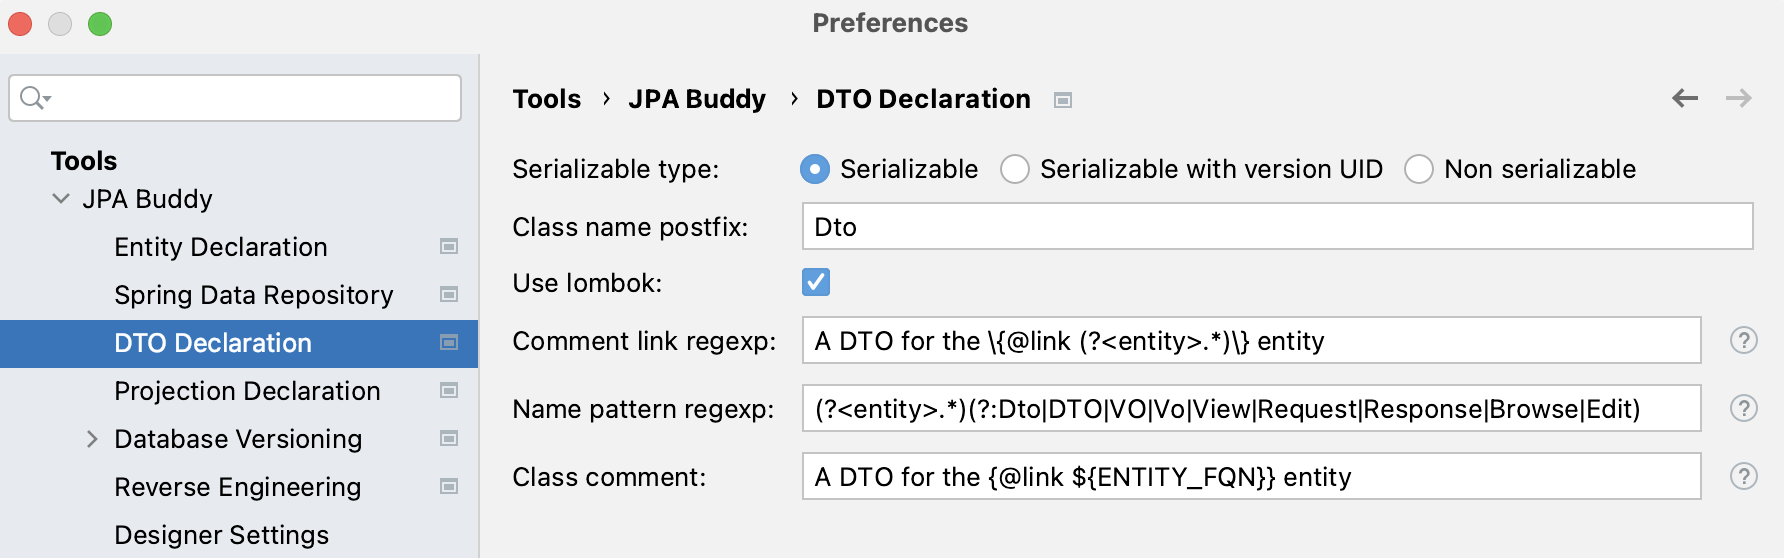
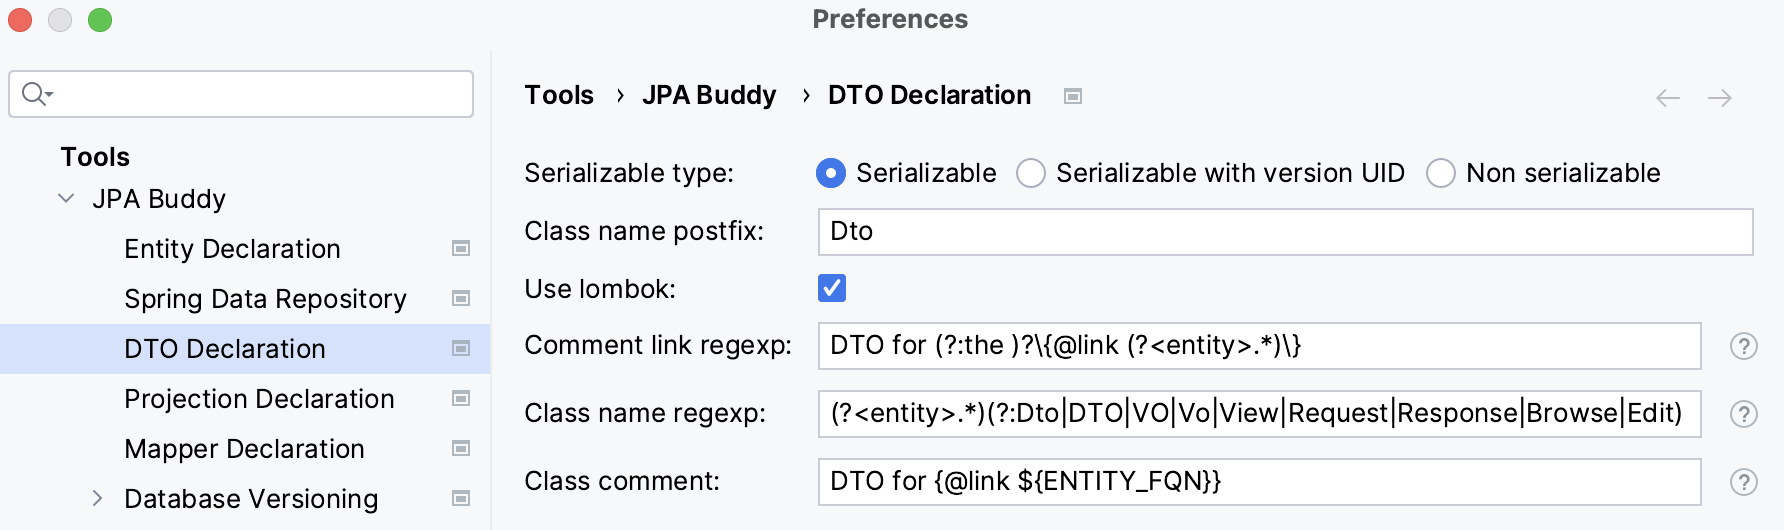
JPAB-2413 Change DTO and Projection "Comment link regexp" and "Class comment" default value #171

diff --git a/dto-generator/dto-generator.md b/dto-generator/dto-generator.md
@@ -200,12 +200,13 @@ Each project may follow its own conventions for code writing. In the Tools -> JP
 1. Serializable type.
 2. Class name postfix.
 3. Whether to use Lombok or not.
-4. Name pattern regexp. This option is useful if you follow an obligatory naming convention for DTOs. It allows JPA Buddy to associate a DTO with its JPA Entity using a DTO name only. You can specify a placeholder for the simple class name of the target JPA entity using the `(?<entity>.)` pattern. E.g., `(?.)Dto` means that the `MyEntityDto` class will be considered as a DTO for `MyEntity`. This feature is disabled when the field is empty. 
-5. Class comment. Defines the comment that will be generated over the DTO class.
-6. Comment link regexp (The feature is disabled when the field is empty). It allows JPA Buddy to associate a DTO with its JPA Entity. To specify a placeholder for the target entity FQN (Fully Qualified Name) in a comment use the `(?<entity>.*)` pattern. So, if the regexp is defined as `A DTO for the{@link (?.*)} entity.` it will be resolved in the following comment:
-  ```java
-  // A DTO for the {@link io.jpabuddy.demo.entities.Project} entity.
-  ```
+4. Comment link regexp (The feature is disabled when the field is empty). It allows JPA Buddy to associate a DTO with its JPA Entity. To specify a placeholder for the target entity FQN (Fully Qualified Name) in a comment use the `(?<entity>.*)` pattern. So, if the regexp is defined as `DTO for (?:the )?\{@link (?<entity>.*)\}` it will be resolved in the following comment:
+    ```java
+    //DTO for the {@link io.jpabuddy.demo.entities.Project} entity
+    ```
+5. Class name regexp. This option is useful if you follow an obligatory naming convention for DTOs. It allows JPA Buddy to associate a DTO with its JPA Entity using a DTO name only. You can specify a placeholder for the simple class name of the target JPA entity using the `(?<entity>.)` pattern. E.g., `(?.)Dto` means that the `MyEntityDto` class will be considered as a DTO for `MyEntity`. This feature is disabled when the field is empty. 
+6. Class comment. Defines the comment that will be generated over the DTO class.
+
 ### Validation Rules
 
 JPA Buddy offers seamless configuration of bean validation constraints for DTO fields within its dedicated DTO generation wizard. In addition to defining validations from scratch, you can automatically transfer the validations from the corresponding entities and manage them in the same wizard.
